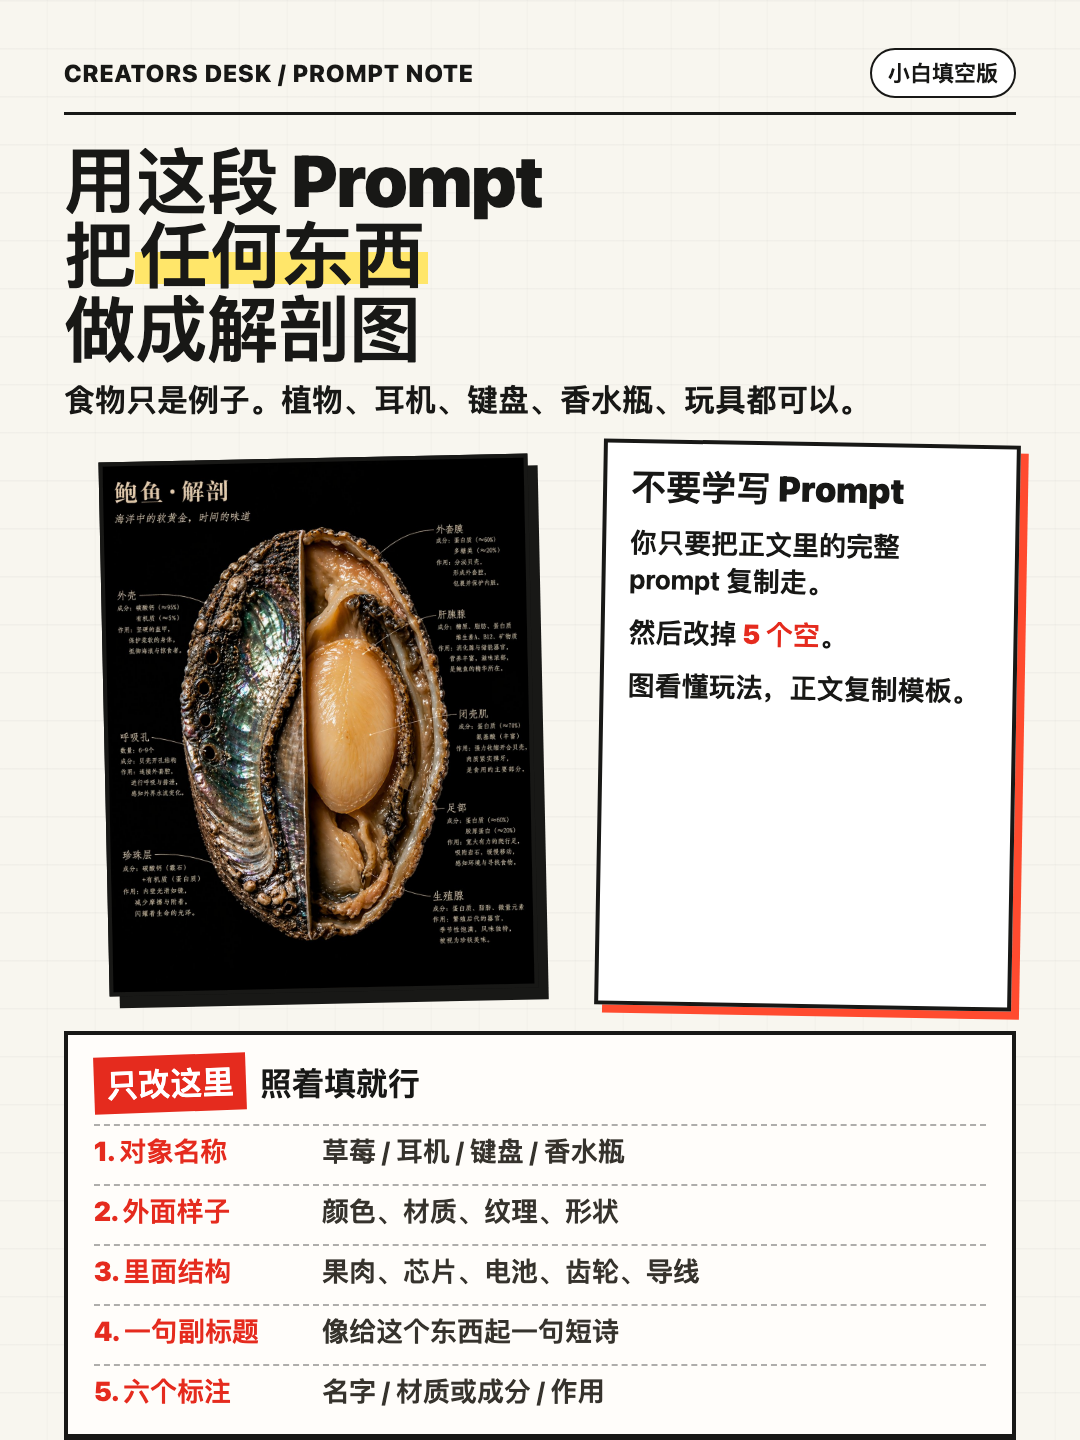
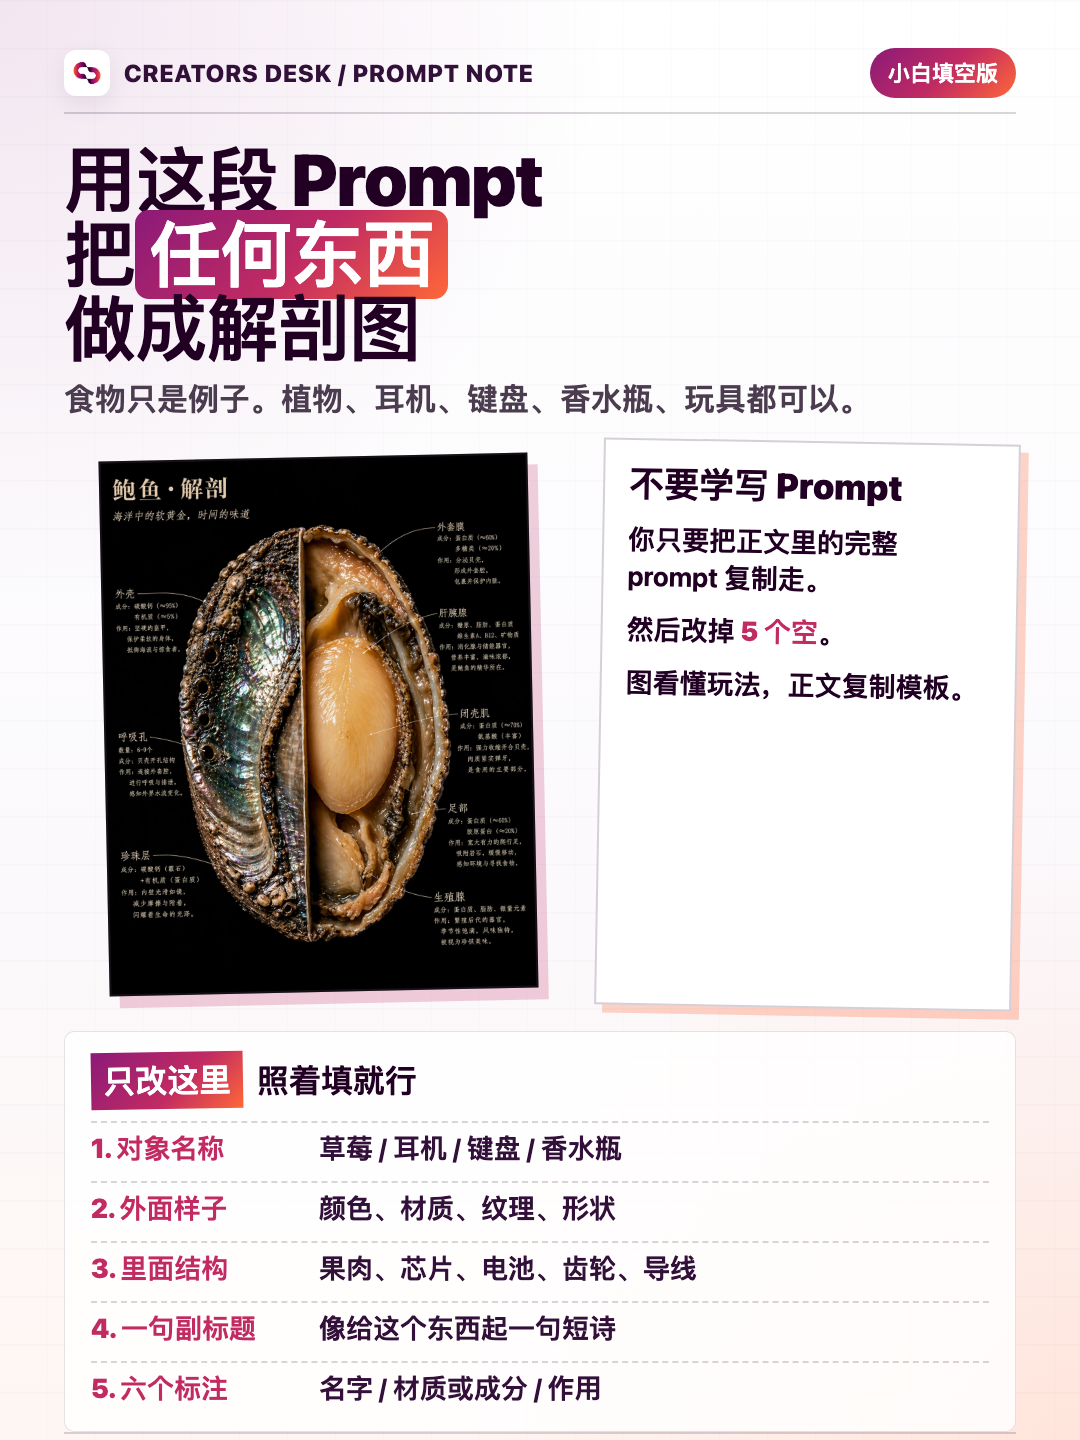
Apply creators desk branding to beginner form card

diff --git a/social-card-specimen-prompt/beginner-form.html b/social-card-specimen-prompt/beginner-form.html
@@ -10,29 +10,30 @@
       min-height: 100vh;
       display: grid;
       place-items: center;
-      background: #e9e9e4;
+      background: #f2f1f3;
       font-family: -apple-system, BlinkMacSystemFont, "PingFang SC", "Noto Sans SC", "Microsoft YaHei", sans-serif;
-      color: #181816;
+      color: #210024;
     }
     .sheet {
       width: 1080px;
       height: 1440px;
       background:
-        linear-gradient(#f8f6ef 0 0),
-        repeating-linear-gradient(0deg, rgba(24,24,22,.06) 0 1px, transparent 1px 48px);
+        radial-gradient(circle at 0% 0%, rgba(139, 26, 120, .11), transparent 34%),
+        radial-gradient(circle at 100% 100%, rgba(255, 103, 56, .12), transparent 34%),
+        linear-gradient(180deg, #ffffff 0%, #fbf9fc 62%, #fff6f2 100%);
       position: relative;
       overflow: hidden;
       padding: 48px 64px 48px;
-      box-shadow: 0 30px 100px rgba(0,0,0,.22);
+      box-shadow: 0 30px 100px rgba(33,0,36,.16);
     }
     .sheet::before {
       content: "";
       position: absolute;
       inset: 0;
       background:
-        repeating-linear-gradient(0deg, transparent 0 46px, rgba(24,24,22,.045) 47px 48px),
-        repeating-linear-gradient(90deg, transparent 0 46px, rgba(24,24,22,.025) 47px 48px);
-      opacity: .7;
+        repeating-linear-gradient(0deg, transparent 0 46px, rgba(50,16,58,.04) 47px 48px),
+        repeating-linear-gradient(90deg, transparent 0 46px, rgba(50,16,58,.025) 47px 48px);
+      opacity: .55;
       pointer-events: none;
     }
     .content { position: relative; z-index: 1; height: 100%; display: flex; flex-direction: column; }
@@ -40,21 +41,36 @@
       display: flex;
       justify-content: space-between;
       align-items: center;
-      border-bottom: 3px solid #181816;
+      border-bottom: 2px solid rgba(50,16,58,.18);
       padding-bottom: 14px;
+    }
+    .brand-lockup {
+      display: flex;
+      align-items: center;
+      gap: 14px;
+    }
+    .brand-logo {
+      width: 46px;
+      height: 46px;
+      object-fit: contain;
+      display: block;
+      border-radius: 12px;
+      box-shadow: 0 8px 24px rgba(50,16,58,.08);
     }
     .brand {
       font-size: 24px;
       font-weight: 800;
       letter-spacing: .04em;
+      color: #32103a;
     }
     .tag {
-      border: 2px solid #181816;
+      border: 0;
       border-radius: 999px;
-      padding: 8px 16px;
+      padding: 10px 18px;
       font-size: 22px;
       font-weight: 800;
-      background: #fff;
+      color: #fff;
+      background: linear-gradient(135deg, #8b1a78 0%, #c12b62 52%, #ff6738 100%);
     }
     h1 {
       margin: 28px 0 14px;
@@ -62,16 +78,22 @@
       line-height: 1.03;
       letter-spacing: -0.01em;
       font-weight: 900;
+      color: #210024;
     }
     .highlight {
-      background: linear-gradient(transparent 48%, #ffe66a 48% 86%, transparent 86%);
-      padding: 0 4px;
+      color: #fff;
+      background: linear-gradient(135deg, #8b1a78 0%, #c12b62 54%, #ff6738 100%);
+      border-radius: 14px;
+      padding: 0 14px 4px;
+      box-decoration-break: clone;
+      -webkit-box-decoration-break: clone;
     }
     .sub {
       margin: 0 0 20px;
       font-size: 31px;
       line-height: 1.38;
       font-weight: 600;
+      color: #4b3d4f;
     }
     .hero {
       display: grid;
@@ -83,11 +105,11 @@
     .photo {
       position: relative;
       background: #111;
-      border: 4px solid #181816;
+      border: 2px solid rgba(50,16,58,.2);
       min-height: 460px;
       overflow: hidden;
       transform: rotate(-1.2deg);
-      box-shadow: 10px 12px 0 #181816;
+      box-shadow: 10px 12px 0 rgba(193,43,98,.22);
     }
     .photo::before {
       content: "";
@@ -107,10 +129,10 @@
       display: block;
     }
     .note {
-      border: 4px solid #181816;
+      border: 2px solid rgba(50,16,58,.2);
       background: #fff;
       padding: 24px 24px;
-      box-shadow: 8px 8px 0 #ff4b2f;
+      box-shadow: 8px 8px 0 rgba(255,103,56,.28);
       transform: rotate(1deg);
     }
     .note h2 {
@@ -126,12 +148,13 @@
       font-weight: 650;
     }
     .red {
-      color: #e52b1e;
+      color: #c12b62;
       font-weight: 900;
     }
     .form {
-      border: 4px solid #181816;
-      background: #fffdfa;
+      border: 1px solid rgba(50,16,58,.12);
+      border-radius: 10px;
+      background: rgba(255,255,255,.84);
       padding: 20px 26px 18px;
       display: grid;
       gap: 8px;
@@ -146,16 +169,16 @@
     }
     .stamp {
       color: #fff;
-      background: #e52b1e;
+      background: linear-gradient(135deg, #8b1a78 0%, #c12b62 58%, #ff6738 100%);
       padding: 6px 12px;
-      transform: rotate(-2deg);
+      transform: rotate(-1deg);
       display: inline-block;
     }
     .row {
       display: grid;
       grid-template-columns: 210px 1fr;
       min-height: 52px;
-      border-top: 2px dashed rgba(24,24,22,.35);
+      border-top: 2px dashed rgba(50,16,58,.18);
       align-items: center;
       gap: 18px;
       font-size: 27px;
@@ -163,10 +186,10 @@
     .row:first-of-type { border-top: 0; }
     .label {
       font-weight: 900;
-      color: #e52b1e;
+      color: #c12b62;
     }
     .value {
-      color: #36332d;
+      color: #32103a;
       font-weight: 650;
     }
     .footer {
@@ -175,9 +198,10 @@
       justify-content: space-between;
       align-items: center;
       padding-top: 22px;
-      border-top: 3px solid #181816;
+      border-top: 2px solid rgba(50,16,58,.18);
       font-size: 24px;
       font-weight: 850;
+      color: #4b3d4f;
     }
   </style>
 </head>
@@ -185,7 +209,10 @@
   <section class="sheet" id="beginner-form">
     <div class="content">
       <div class="top">
-        <div class="brand">CREATORS DESK / PROMPT NOTE</div>
+        <div class="brand-lockup">
+          <img class="brand-logo" src="assets/creators-desk-logo.png" alt="creators desk logo">
+          <div class="brand">CREATORS DESK / PROMPT NOTE</div>
+        </div>
         <div class="tag">小白填空版</div>
       </div>
       <h1>用这段 Prompt<br>把<span class="highlight">任何东西</span><br>做成解剖图</h1>
